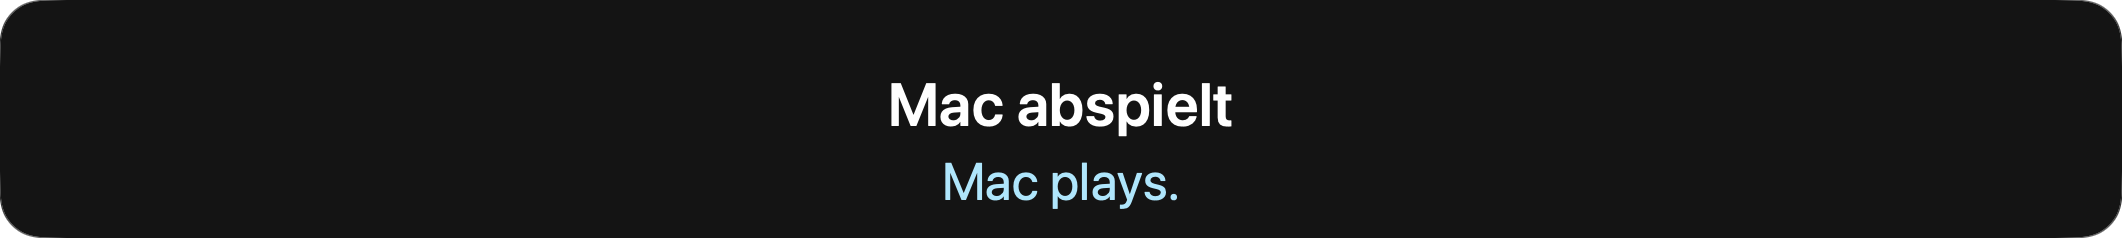
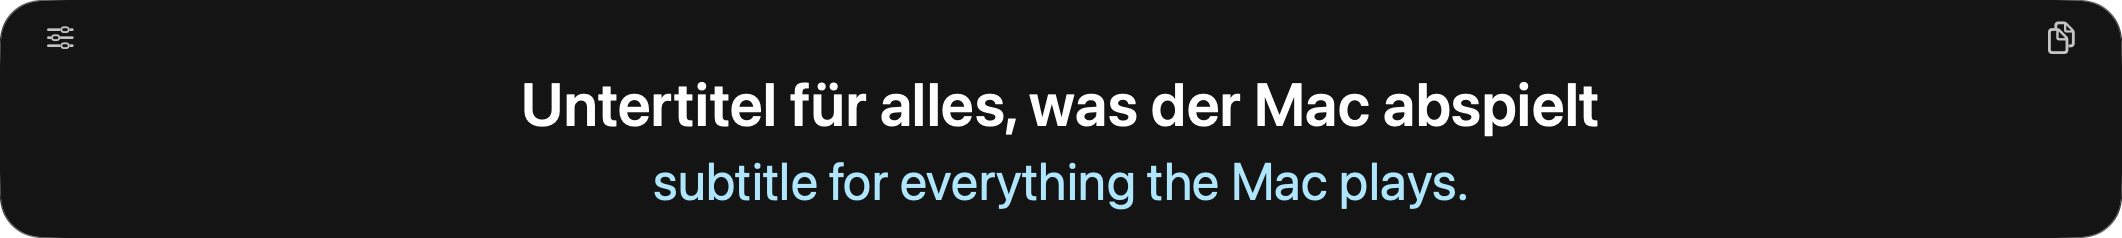
Show whole sentences instead of the clause that arrived last
The recogniser commits a clause every few seconds, deliberately: waiting for
punctuation means continuous speech produces no captions at all, and the
multilingual model frequently emits no punctuation ever. But those clauses were
being shown one at a time, each replacing the one before, so a sentence arrived
as a series of two-word flashes and was gone.

Measured before this change, speaking "Untertitel für alles, was der Mac
abspielt":

    committed  "Untertitel für alles,"     -> replaced by
    committed  "was der Mac abspielt"      -> on screen, alone
    translated "Mac plays."

Every clause was also translated on its own, without the rest of its sentence,
which is how a translator produces "Mac plays." from a sentence about subtitles.
The two lines could even disagree, since a translation arrives while the
original has already moved on to the next fragment.

Clauses are now assembled. A committed clause extends the line on screen rather
than replacing it, and the sentence is handed to language detection, the
translator and the transcript once — as a whole. After:

    on screen  "Untertitel für alles, was der Mac abspielt"
    translated "subtitle for everything the Mac plays."

A sentence is closed by terminal punctuation, by the pause that
commitAtSpeechGap already detects — which is what ends a sentence in speech that
carries no punctuation — by a 220-character cap for speech that does neither, or
by Stop, so the last thing said still reaches the transcript.
[…]

diff --git a/Sources/sAiity/AppDelegate.swift b/Sources/sAiity/AppDelegate.swift
@@ -206,6 +206,58 @@ final class AppDelegate: NSObject, NSApplicationDelegate {
     /// Untruncated, unlike the overlay label — never copy from the view.
     private var lastFinalText = ""
     private var lastVolatileText = ""
+
+    // MARK: - Sentence assembly
+    //
+    // The recogniser commits a clause every few seconds, because waiting for
+    // punctuation means continuous speech produces no captions at all. Those
+    // clauses are the right unit for the engine and the wrong unit for a
+    // viewer: shown one at a time they replace each other, so a sentence
+    // arrives as a series of two-word flashes and the translation of each is
+    // made without the rest. These hold the clauses until they form something
+    // worth reading.
+    private var sentenceParts: [String] = []
+    private var sentenceWords: [TimedWord] = []
+    private var sentenceStart: Double = 0
+    private var sentenceEnd: Double = 0
+
+    /// Also the display cap: past this a sentence is closed rather than left to
+    /// grow past what the bubble can show.
+    private static let maxSentenceChars = 220
+    private static let sentenceTerminators: Set<Character> = [".", "!", "?", "…", "。", "！", "？"]
+
+    #if SAIITY_TEST_HOOKS
+    static var sentenceTerminatorsForTests: Set<Character> { sentenceTerminators }
+    static var maxSentenceCharsForTests: Int { maxSentenceChars }
+    #endif
+
+    /// Joins clauses the way the script writes them. Chinese, Japanese and Thai
+    /// run on without spaces, and inserting one produces text a native reader
+    /// sees as broken — and a translator sees as two words.
+    static func joinClauses(_ parts: [String]) -> String {
+        parts.reduce(into: "") { out, part in
+            guard !out.isEmpty else { out = part; return }
+            let runOn = (out.last.map(isSpaceless) ?? false)
+                || (part.first.map(isSpaceless) ?? false)
+            out += runOn ? part : " " + part
+        }
+    }
+
+    private static func isSpaceless(_ c: Character) -> Bool {
+        guard let s = c.unicodeScalars.first else { return false }
+        switch s.value {
+        // CJK punctuation and kana, CJK ideographs, Thai. Korean is written
+        // WITH spaces despite being written in Hangul, so it is not here.
+        case 0x3000...0x30FF, 0x3400...0x4DBF, 0x4E00...0x9FFF, 0x0E00...0x0E7F:
+            return true
+        default:
+            return false
+        }
+    }
+
+    private static func trimmedForDisplay(_ parts: [String]) -> String {
+        String(joinClauses(parts).suffix(maxSentenceChars))
+    }
     private var sessionLines: [Segment] = []
     /// Bumped by start(), so an async result from the previous session cannot
     /// patch a line of this one that happens to share an index.
@@ -805,6 +857,8 @@ final class AppDelegate: NSObject, NSApplicationDelegate {
         transcriptWriteChain = nil
         lastFinalText = ""
         lastVolatileText = ""
+        sentenceParts.removeAll()
+        sentenceWords.removeAll()
         detector.reset()
         detectedLanguage = nil
         setStatus("Starting…")
@@ -897,6 +951,11 @@ final class AppDelegate: NSObject, NSApplicationDelegate {
         try? await Task.sleep(nanoseconds: 350_000_000)
         guard state == .running else { return }
         await backend.flushPending()
+        // The pause IS the end of the sentence. That matters most for the
+        // multilingual model, which frequently emits no punctuation at all —
+        // without this its sentences would only ever be closed by the length
+        // cap, in the middle of a word.
+        closeSentence()
     }
 
     /// What the running engine can hear, said up front.
@@ -1004,6 +1063,10 @@ final class AppDelegate: NSObject, NSApplicationDelegate {
 
         await capture.stop()
         await backend.stop()
+        // backend.stop() emits whatever was still volatile; close the sentence
+        // it lands in so the last thing said reaches the transcript instead of
+        // being dropped with the session.
+        closeSentence()
         await activeTranslator?.stop()
         translatorReady = false
         // Queued transcript writes have to land before the recording closes:
@@ -1083,10 +1146,54 @@ final class AppDelegate: NSObject, NSApplicationDelegate {
             NSLog("sAiity chunk final=\(chunk.isFinal): \(text)")
         }
         showedAnyCaption = true
-        if chunk.isFinal { lastFinalText = text } else { lastVolatileText = text }
-        overlay.show(text: String(text.suffix(220)), isFinal: chunk.isFinal)
 
-        guard chunk.isFinal else { return }
+        guard chunk.isFinal else {
+            // Still being revised: show it after the part of the sentence that
+            // has already settled, so the line reads forward instead of being
+            // replaced by its own tail.
+            lastVolatileText = text
+            overlay.show(text: Self.trimmedForDisplay(sentenceParts + [text]), isFinal: false)
+            return
+        }
+
+        // A committed clause EXTENDS the sentence on screen; it does not replace
+        // it. The engine commits a clause every few seconds so that continuous
+        // speech still produces captions, but those units are not sentences —
+        // "Mac abspielt" on its own is not something anyone can read, and handed
+        // to a translator it comes back as "Mac plays." Assembling them here is
+        // what puts a whole thought on screen and gives the translator a whole
+        // thought to work with.
+        if sentenceParts.isEmpty { sentenceStart = chunk.start }
+        sentenceEnd = chunk.end
+        sentenceParts.append(text)
+        sentenceWords.append(contentsOf: chunk.words)
+        lastVolatileText = ""
+        lastFinalText = Self.joinClauses(sentenceParts)
+        overlay.show(text: Self.trimmedForDisplay(sentenceParts), isFinal: true)
+
+        // Finished, or run on for so long that waiting costs more than an
+        // awkward break. Speech that carries no punctuation at all — most of
+        // what the multilingual model emits — is closed by the pause instead,
+        // from commitAtSpeechGap().
+        let ended = lastFinalText.last.map(Self.sentenceTerminators.contains) ?? false
+        if ended || lastFinalText.count >= Self.maxSentenceChars { closeSentence() }
+    }
+
+    /// Hand the assembled sentence on: language detection, translation, and the
+    /// transcript all work on the whole thing rather than on a clause of it.
+    @MainActor
+    private func closeSentence() {
+        guard !sentenceParts.isEmpty else { return }
+        let text = Self.joinClauses(sentenceParts)
+        let chunk = TranscriptChunk(text: text, isFinal: true,
+                                    start: sentenceStart, end: sentenceEnd,
+                                    words: sentenceWords)
+        sentenceParts.removeAll()
+        sentenceWords.removeAll()
+        emitSentence(text, chunk: chunk)
+    }
+
+    private func emitSentence(_ text: String, chunk: TranscriptChunk) {
 
         // Detection runs on the ACCUMULATED transcript, never a single line:
         // one-word lines are noise ("Ja." reads as Finnish, "Okay." as English).

diff --git a/Tests/sAiityTests/SentenceAssemblyTests.swift b/Tests/sAiityTests/SentenceAssemblyTests.swift
@@ -1,0 +1,71 @@
+import Foundation
+import Testing
+
+@testable import sAiity
+
+/// The recogniser commits a clause every few seconds so that continuous speech
+/// still produces captions. Shown one at a time those clauses replace each
+/// other, so a sentence arrives as a series of two-word flashes — and each
+/// fragment is translated without the rest of its sentence.
+///
+/// Measured before this was fixed: speaking "Untertitel für alles, was der Mac
+/// abspielt" left `Mac abspielt` on screen, translated as `Mac plays.`
+@MainActor
+struct SentenceAssemblyTests {
+
+    @Test("Clauses are joined into one readable line")
+    func joinsWithSpaces() {
+        let parts = ["Untertitel für alles,", "was der", "Mac abspielt."]
+        #expect(AppDelegate.joinClauses(parts) == "Untertitel für alles, was der Mac abspielt.")
+    }
+
+    @Test("A single clause is unchanged")
+    func singleClause() {
+        #expect(AppDelegate.joinClauses(["Hello."]) == "Hello.")
+        #expect(AppDelegate.joinClauses([]) == "")
+    }
+
+    /// Chinese, Japanese and Thai are written without spaces between words.
+    /// Inserting one produces text a native reader sees as broken — and gives a
+    /// translator two tokens where the language has one.
+    @Test("Spaceless scripts are joined without spaces")
+    func spacelessScripts() {
+        #expect(AppDelegate.joinClauses(["这是一个", "测试。"]) == "这是一个测试。")
+        #expect(AppDelegate.joinClauses(["これは", "テストです。"]) == "これはテストです。")
+        // A boundary between a spaceless script and Latin still runs on: the
+        // clause break came from inside one sentence, not between two.
+        #expect(AppDelegate.joinClauses(["这是", "Mac"]) == "这是Mac")
+    }
+
+    /// Korean uses Hangul but writes with spaces, so it must not be lumped in
+    /// with the scripts that do not.
+    @Test("Korean keeps its spaces")
+    func koreanIsSpaced() {
+        #expect(AppDelegate.joinClauses(["안녕하세요", "반갑습니다."]) == "안녕하세요 반갑습니다.")
+    }
+
+    @Test("Every terminator that ends a sentence is recognised")
+    func terminators() {
+        for end in [".", "!", "?", "…", "。", "！", "？"] {
+            let last = Character(end)
+            #expect(AppDelegate.sentenceTerminatorsForTests.contains(last),
+                    "\(end) should close a sentence")
+        }
+        // A comma must NOT close one — it is exactly where the engine breaks a
+        // clause, and closing there is the bug this whole file is about.
+        for mid in [",", "、", "，", ";", ":"] {
+            #expect(!AppDelegate.sentenceTerminatorsForTests.contains(Character(mid)),
+                    "\(mid) is a clause break, not a sentence end")
+        }
+    }
+
+    /// Without a cap, speech that never pauses and never gets punctuation would
+    /// accumulate for the whole session and never be translated at all.
+    @Test("The length cap is large enough for a real sentence and small enough to bound")
+    func lengthCap() {
+        #expect(AppDelegate.maxSentenceCharsForTests >= 180,
+                "a long spoken sentence must fit without being chopped")
+        #expect(AppDelegate.maxSentenceCharsForTests <= 400,
+                "past this the bubble cannot show it anyway")
+    }
+}
